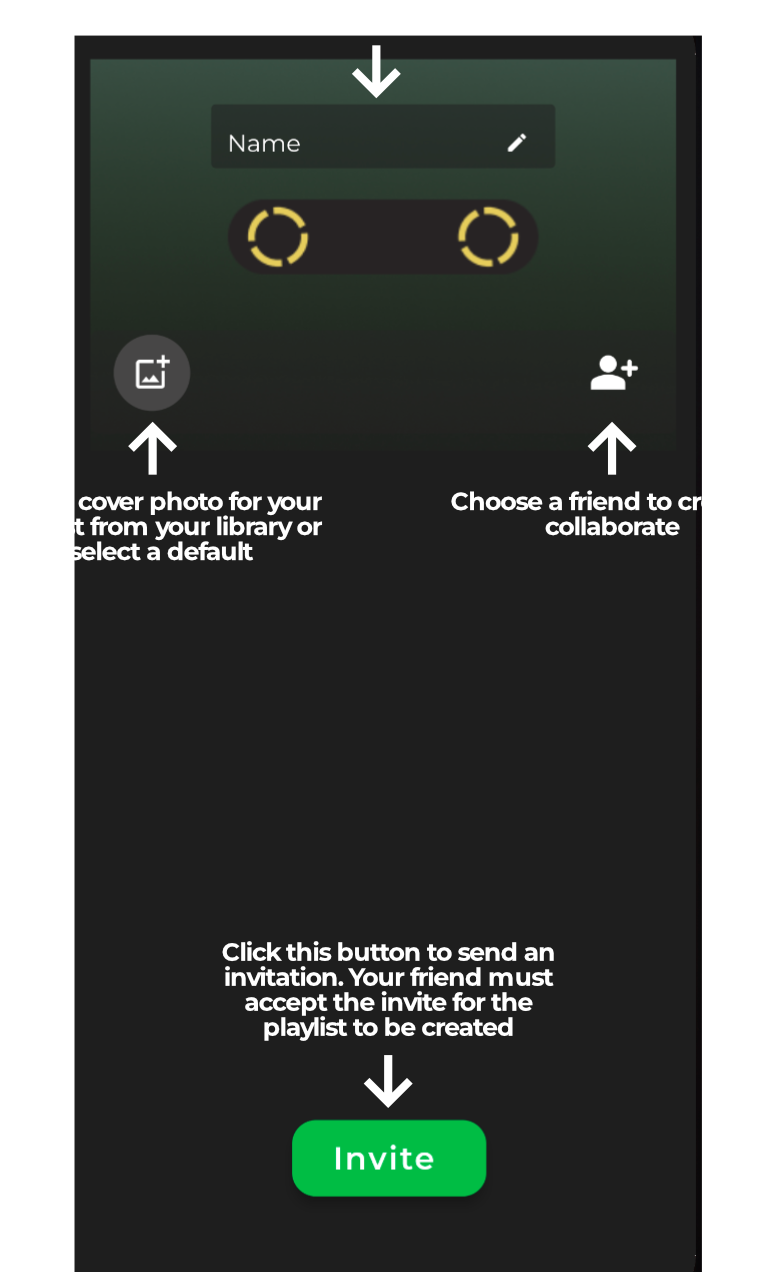
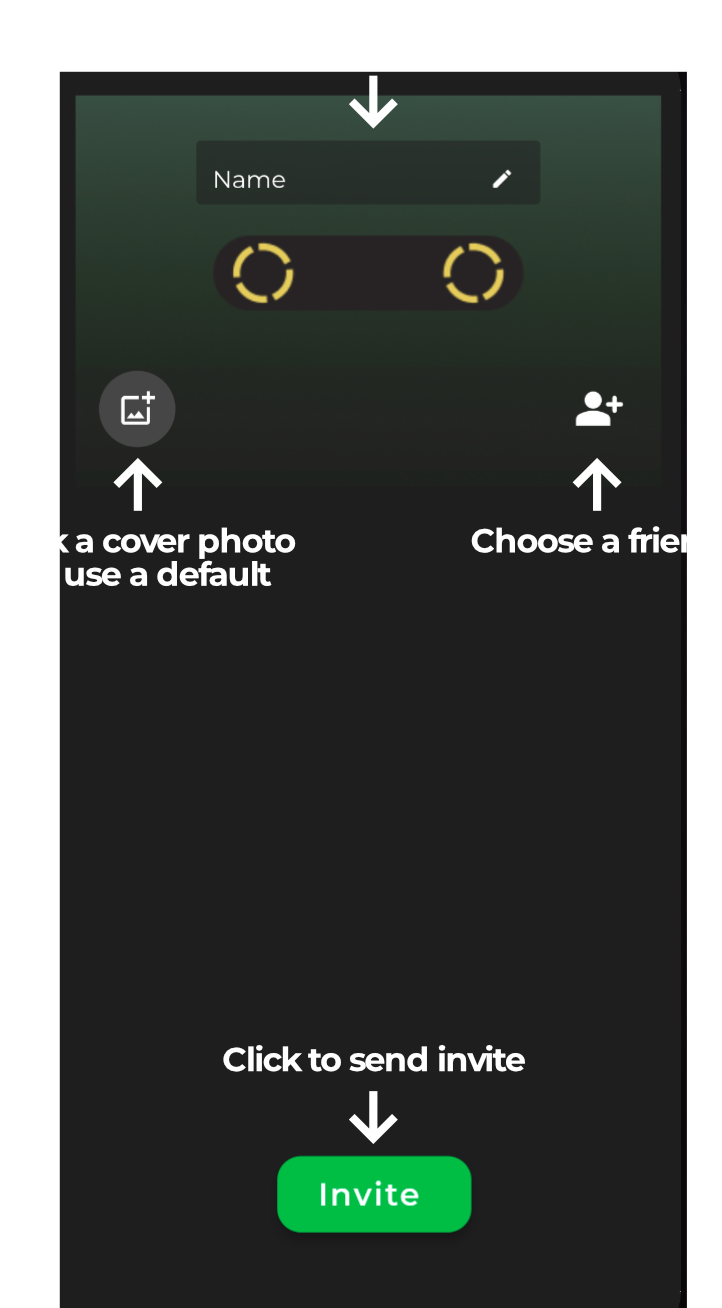
updated photos

Changed region(s): [[0.0609, 0.0, 0.9751, 1.0], [0.2742, 0.7358, 0.7313, 0.9505], [0.3657, 0.8892, 0.3961, 0.9505]]

diff --git a/lib/tour_targets/playlist_mixtape_tutorial_pages.dart b/lib/tour_targets/playlist_mixtape_tutorial_pages.dart
@@ -12,7 +12,7 @@ final List<Widget> _tutorialPages = <Widget>[
         crossAxisAlignment: CrossAxisAlignment.center,
         children: [
           Text(
-            'Profile',
+            'Playlist Creation',
             textAlign: TextAlign.center,
             style: TextStyle(
               fontWeight: FontWeight.bold,
@@ -22,20 +22,20 @@ final List<Widget> _tutorialPages = <Widget>[
             ),
           ),
           Text(
-            'This is the profile page. Your MixTape account is linked to your Spotify account.\n'
-                'You will be able to add a collection of songs from playlist MixTapes to your queue.',
+            'This is the playlist creation screen. Choose a photo, title, and friend for your playlist. \n\n'
+            'Click the \"Invite\" button to send the playlist invitation. Your friend must accept the invite in order for the playlist to be created',
             textAlign: TextAlign.center,
             style: TextStyle(
               fontFamily: 'Montserrat',
               color: Colors.white,
-              fontSize:17,
+              fontSize:15,
             ),
           ),
           ClipRRect(
             borderRadius: BorderRadius.circular(5),
             child: Image.asset(
-              'assets/profile_page.png',
-              height: 100,
+              'assets/playlist_creation.png',
+              height: 400,
               fit: BoxFit.cover,
             ),
           ),

diff --git a/lib/screens/home_page.dart b/lib/screens/home_page.dart
@@ -157,7 +157,8 @@ class _HomePageState extends State<HomePage> {
       },
     ).then((result) {
       if (onboarded) {
-        showTour();
+        //showTour();
+        showPlaylistMixtapeTour();
       }
     });
   }
